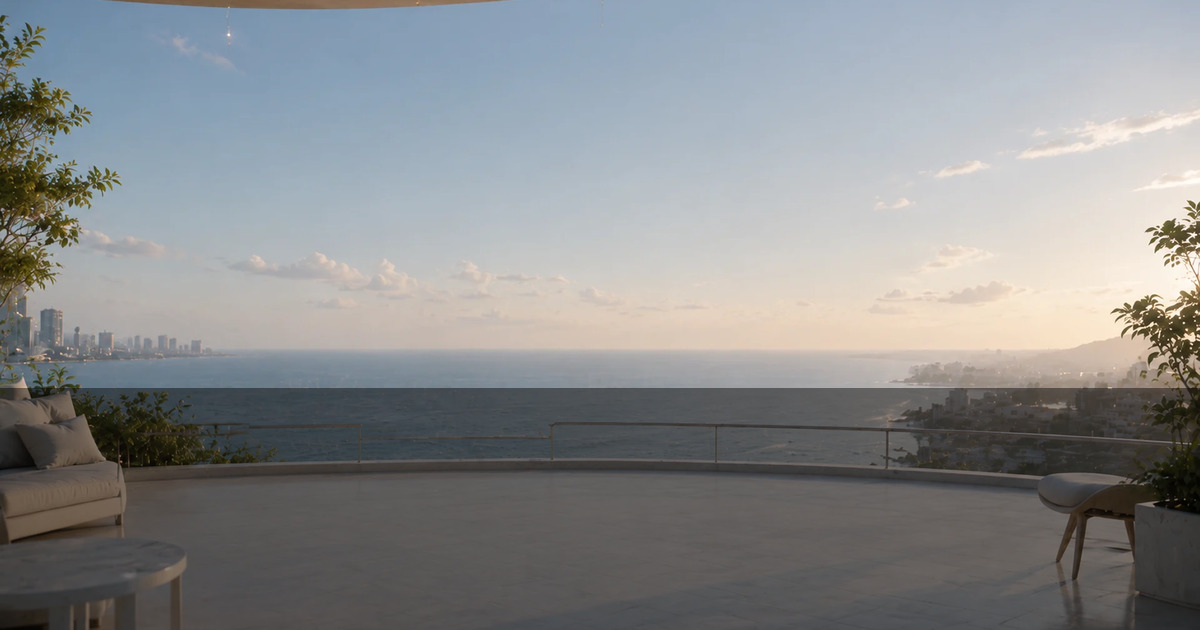
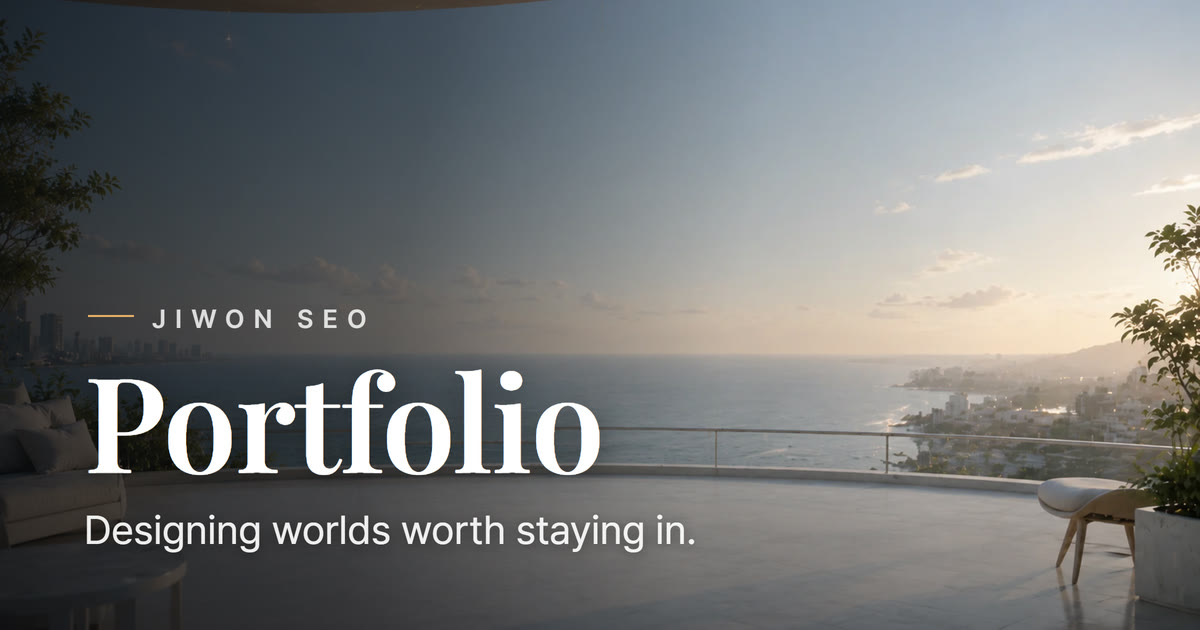
feat(meta): 사이트/SNS 제목을 JIWON SEO PORTFOLIO로 변경 + og 썸네일 교체
- title·og:title·twitter:title → "JIWON SEO PORTFOLIO"
- og:image 히어로 오버레이안으로 교체(석양 배경+베일+타이포, 1200x630 72KB)
- og 시안/렌더 소스(og-mockup.html, og-render.html) 추가

diff --git a/img/og/og-mockup.html b/img/og/og-mockup.html
@@ -1,0 +1,151 @@
+<!DOCTYPE html>
+<html lang="ko">
+<head>
+<meta charset="UTF-8" />
+<title>OG 썸네일 시안 — JIWON SEO PORTFOLIO</title>
+<link rel="preconnect" href="https://fonts.googleapis.com" />
+<link rel="preconnect" href="https://fonts.gstatic.com" crossorigin />
+<link href="https://fonts.googleapis.com/css2?family=Playfair+Display:wght@400;500;600&display=swap" rel="stylesheet" />
+<link rel="stylesheet" as="style" crossorigin
+      href="https://cdn.jsdelivr.net/gh/orioncactus/pretendard@v1.3.9/dist/web/static/pretendard.css" />
+<style>
+  :root {
+    --ink: #ffffff;
+    --bg-dark: #0a0b11;
+  }
+  * { margin: 0; padding: 0; box-sizing: border-box; }
+  body {
+    background: #17181f;
+    color: #cfd2da;
+    font-family: Pretendard, sans-serif;
+    padding: 48px;
+    display: flex;
+    flex-direction: column;
+    gap: 40px;
+    align-items: flex-start;
+  }
+  h2.label {
+    font-size: 15px; font-weight: 600; letter-spacing: 0.08em;
+    text-transform: uppercase; color: #8b90a0; margin-bottom: 14px;
+  }
+  .label .reco { color: #e8b06a; }
+
+  /* ── OG 카드 공통: 정확히 1200×630 ── */
+  .og {
+    width: 1200px; height: 630px;
+    position: relative; overflow: hidden;
+    border-radius: 4px;
+    box-shadow: 0 20px 60px rgba(0,0,0,0.5);
+  }
+  .og__photo {
+    position: absolute; inset: 0;
+    width: 100%; height: 100%; object-fit: cover;
+    object-position: center 42%;
+  }
+  /* 좌→우 검정 그라데이션 베일 (blur 없음 — JPG 안전) */
+  .og__veil {
+    position: absolute; inset: 0;
+    background: linear-gradient(
+      100deg,
+      rgba(8,9,14,0.78) 0%,
+      rgba(8,9,14,0.55) 34%,
+      rgba(8,9,14,0.12) 60%,
+      rgba(8,9,14,0.0) 80%
+    );
+  }
+  /* 하단 살짝 보강 (좌하단 안전영역) */
+  .og__veil-bottom {
+    position: absolute; inset: 0;
+    background: linear-gradient(
+      to top,
+      rgba(8,9,14,0.35) 0%,
+      rgba(8,9,14,0.0) 30%
+    );
+  }
+  .og__text {
+    position: absolute;
+    left: 84px; bottom: 76px;     /* 좌 7% · 하 12% 안전영역 */
+    display: flex; flex-direction: column;
+    align-items: flex-start;
+  }
+  .og__kicker {
+    font-family: Pretendard, sans-serif;
+    font-size: 26px; font-weight: 600;
+    letter-spacing: 0.36em; text-transform: uppercase;
+    color: rgba(255,255,255,0.82);
+    margin-bottom: 22px;
+    padding-left: 4px;
+  }
+  .og__kicker::before {
+    content: ""; display: inline-block;
+    width: 46px; height: 2px; vertical-align: middle;
+    background: #e8b06a; margin-right: 18px;
+    transform: translateY(-5px);
+  }
+  .og__title {
+    font-family: "Playfair Display", serif;
+    font-size: 132px; font-weight: 600; line-height: 0.94;
+    color: var(--ink);
+    letter-spacing: -0.01em;
+    text-shadow: 0 6px 30px rgba(0,0,0,0.45);
+  }
+  .og__sub {
+    font-family: Pretendard, sans-serif;
+    font-size: 40px; font-weight: 400; line-height: 1.2;
+    color: rgba(255,255,255,0.92);
+    margin-top: 26px;
+    text-shadow: 0 2px 14px rgba(0,0,0,0.5);
+  }
+
+  /* ── 검정 변형 ── */
+  .og--black { background: var(--bg-dark); }
+  .og--black .og__hairline {
+    position: absolute; left: 84px; top: 84px;
+    width: 64px; height: 2px; background: #e8b06a;
+  }
+  .og--black .og__text { bottom: auto; top: 50%; transform: translateY(-50%); }
+
+  .note { max-width: 1200px; font-size: 14px; line-height: 1.7; color: #9aa0b0; }
+  .note code { background:#23252e; padding:2px 7px; border-radius:4px; color:#dfe2ea; }
+  .note b { color: #e8b06a; font-weight: 600; }
+</style>
+</head>
+<body>
+
+  <section>
+    <h2 class="label">안 C · 히어로 오버레이 <span class="reco">★ 추천</span> — 1200 × 630</h2>
+    <div class="og" id="card-hero">
+      <img class="og__photo" src="../main/main_bg.webp" alt="" />
+      <div class="og__veil"></div>
+      <div class="og__veil-bottom"></div>
+      <div class="og__text">
+        <div class="og__kicker">JIWON SEO</div>
+        <div class="og__title">Portfolio</div>
+        <div class="og__sub">Designing worlds worth staying in.</div>
+      </div>
+    </div>
+  </section>
+
+  <section>
+    <h2 class="label">안 D · 검정 에디토리얼 (비교용) — 1200 × 630</h2>
+    <div class="og og--black" id="card-black">
+      <div class="og__hairline"></div>
+      <div class="og__text">
+        <div class="og__kicker">JIWON SEO</div>
+        <div class="og__title">Portfolio</div>
+        <div class="og__sub">Visual &amp; Experience Design</div>
+      </div>
+    </div>
+  </section>
+
+  <p class="note">
+    <b>쓰는 법</b> — 이 파일을 브라우저로 열면 두 시안이 실제 <code>1200×630</code> 크기로 렌더됩니다.
+    Figma에서 그대로 재현하거나, 카드 영역만 캡쳐해 참고용으로 쓰세요.<br />
+    <b>스펙</b> — 배경 <code>img/main/main_bg.webp</code> · 좌→우 검정 베일(0.78→0, blur 없음) ·
+    타이틀 Playfair Display 132px / 서브 Pretendard 40px · 좌하단 안전영역(좌 84px·하 76px).<br />
+    <b>작은 썸네일 검증</b> — 카드를 200px 폭으로 줄여도 "JIWON SEO · Portfolio"가 읽히는지 꼭 확인하세요(카톡 카드 기준).
+    필요하면 타이틀을 대문자 <code>PORTFOLIO</code>로 키워도 됩니다.
+  </p>
+
+</body>
+</html>

diff --git a/img/og/og-render.html b/img/og/og-render.html
@@ -1,0 +1,65 @@
+<!DOCTYPE html>
+<html lang="ko">
+<head>
+<meta charset="UTF-8" />
+<link rel="preconnect" href="https://fonts.googleapis.com" />
+<link rel="preconnect" href="https://fonts.gstatic.com" crossorigin />
+<link href="https://fonts.googleapis.com/css2?family=Playfair+Display:wght@400;500;600&display=swap" rel="stylesheet" />
+<link rel="stylesheet" as="style" crossorigin
+      href="https://cdn.jsdelivr.net/gh/orioncactus/pretendard@v1.3.9/dist/web/static/pretendard.css" />
+<style>
+  * { margin: 0; padding: 0; box-sizing: border-box; }
+  html, body { width: 1200px; height: 630px; overflow: hidden; background: #0a0b11; }
+  .og { width: 1200px; height: 630px; position: relative; overflow: hidden; }
+  .og__photo {
+    position: absolute; inset: 0; width: 100%; height: 100%;
+    object-fit: cover; object-position: center 42%;
+  }
+  .og__veil {
+    position: absolute; inset: 0;
+    background: linear-gradient(100deg,
+      rgba(8,9,14,0.78) 0%, rgba(8,9,14,0.55) 34%,
+      rgba(8,9,14,0.12) 60%, rgba(8,9,14,0.0) 80%);
+  }
+  .og__veil-bottom {
+    position: absolute; inset: 0;
+    background: linear-gradient(to top,
+      rgba(8,9,14,0.35) 0%, rgba(8,9,14,0.0) 30%);
+  }
+  .og__text { position: absolute; left: 84px; bottom: 76px;
+    display: flex; flex-direction: column; align-items: flex-start; }
+  .og__kicker {
+    font-family: Pretendard, sans-serif; font-size: 26px; font-weight: 600;
+    letter-spacing: 0.36em; text-transform: uppercase;
+    color: rgba(255,255,255,0.82); margin-bottom: 22px; padding-left: 4px;
+  }
+  .og__kicker::before {
+    content: ""; display: inline-block; width: 46px; height: 2px;
+    vertical-align: middle; background: #e8b06a; margin-right: 18px;
+    transform: translateY(-5px);
+  }
+  .og__title {
+    font-family: "Playfair Display", serif; font-size: 132px; font-weight: 600;
+    line-height: 0.94; color: #fff; letter-spacing: -0.01em;
+    text-shadow: 0 6px 30px rgba(0,0,0,0.45);
+  }
+  .og__sub {
+    font-family: Pretendard, sans-serif; font-size: 40px; font-weight: 400;
+    line-height: 1.2; color: rgba(255,255,255,0.92); margin-top: 26px;
+    text-shadow: 0 2px 14px rgba(0,0,0,0.5);
+  }
+</style>
+</head>
+<body>
+  <div class="og">
+    <img class="og__photo" src="../main/main_bg.webp" alt="" />
+    <div class="og__veil"></div>
+    <div class="og__veil-bottom"></div>
+    <div class="og__text">
+      <div class="og__kicker">JIWON SEO</div>
+      <div class="og__title">Portfolio</div>
+      <div class="og__sub">Designing worlds worth staying in.</div>
+    </div>
+  </div>
+</body>
+</html>

diff --git a/index.html b/index.html
@@ -3,17 +3,17 @@
 <head>
   <meta charset="UTF-8" />
   <meta name="viewport" content="width=device-width, initial-scale=1.0" />
-  <title>Jiwon — Visual & Experience Design</title>
+  <title>JIWON SEO PORTFOLIO</title>
   <meta name="description" content="Designing worlds worth staying in. Visual & experience design portfolio." />
   <meta property="og:type" content="website" />
   <meta property="og:url" content="https://jiwon12011.github.io/portfolio/" />
-  <meta property="og:title" content="Jiwon — Visual & Experience Design" />
+  <meta property="og:title" content="JIWON SEO PORTFOLIO" />
   <meta property="og:description" content="Designing worlds worth staying in. Visual & experience design portfolio." />
   <meta property="og:image" content="https://jiwon12011.github.io/portfolio/img/og/portfolio-og.jpg" />
   <meta property="og:image:width" content="1200" />
   <meta property="og:image:height" content="630" />
   <meta name="twitter:card" content="summary_large_image" />
-  <meta name="twitter:title" content="Jiwon — Visual & Experience Design" />
+  <meta name="twitter:title" content="JIWON SEO PORTFOLIO" />
   <meta name="twitter:description" content="Designing worlds worth staying in. Visual & experience design portfolio." />
   <meta name="twitter:image" content="https://jiwon12011.github.io/portfolio/img/og/portfolio-og.jpg" />
 
